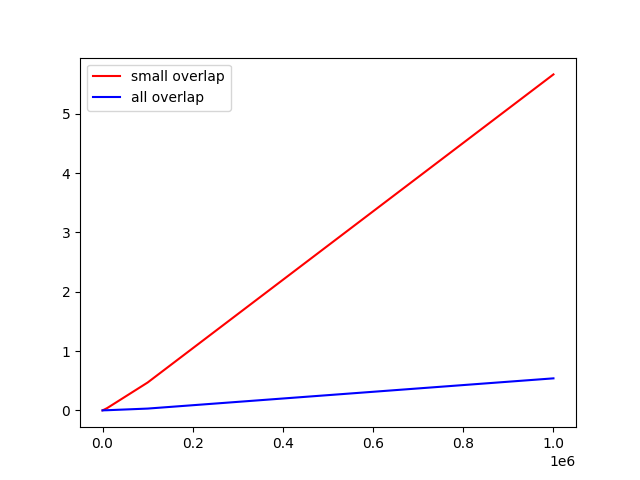
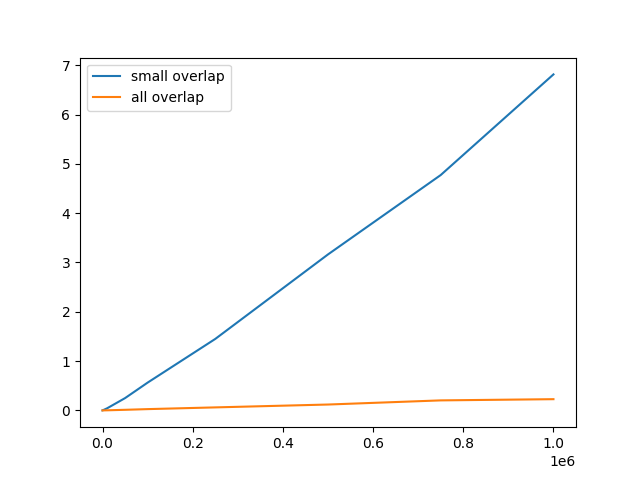
Add more test sizes for better curve visualization in plot

diff --git a/project1/fuzzy_sorting.py b/project1/fuzzy_sorting.py
@@ -20,7 +20,7 @@ from random import randint
 
 def fuzzy_sort(arr, begin, end):
     """
-    Returns intervals in a fuzzy sorted manner for the given array of intevals
+    Returns intervals in a fuzzy sorted manner for the given array of intervals
 
         Parameters:
             arr (list of lists): The list of intervals that are to be sorted
@@ -51,9 +51,9 @@ def random_partition(arr, begin, end):
             Tuple: The end and start points for the split lists
     """
         
-    i = randint(begin, end)
-    # swap pivot with last element
-    arr[i], arr[end] = arr[end], arr[i]
+    pivot = randint(begin, end)
+    # swap pivot with last element this helps us to use the quicksort algorithm even though we have a random pivot
+    arr[pivot], arr[end] = arr[end], arr[pivot]
 
     return partition(arr, begin, end)
 
@@ -72,21 +72,22 @@ def partition(arr, begin, end):
     """
 
     pivot = arr[end]
-    q = begin - 1
-    t = begin - 1
+    q = begin - 1       # middle start
+    t = begin - 1       # middle end
 
     for i in range(begin, end):
-        if arr[i][1] < pivot[0]:
+        if arr[i][0] <= pivot[1] and pivot[0] <= arr[i][1]: # right
+            t += 1
+            arr[t], arr[i] = arr[i], arr[t]
+
+        elif arr[i][1] < pivot[0]:  # left-middle 
             t += 1
             q += 1
             arr[t], arr[q] = arr[q], arr[t]
 
             if t != i:
                 arr[i], arr[q] = arr[q], arr[i]
-        elif (arr[i][0] <= pivot[1] and pivot[0] <= arr[i][1]):
-            t += 1
-            arr[t], arr[i] = arr[i], arr[t]
-
+        
     arr[t + 1], arr[end] = arr[end], arr[t + 1]
 
     return q + 1, t + 1
@@ -151,6 +152,7 @@ def small_overlap():
     begin = time.time()
     fuzzy_sort(arr, 0, len(arr)-1)
     end = time.time()
+    # print(arr)
     exec_time = end - begin
     time_taken_small.append((10,exec_time))
     print((10,exec_time))
@@ -182,6 +184,15 @@ def small_overlap():
     time_taken_small.append((10000,exec_time))
     print((10000,exec_time))
 
+    # Size 50000
+    arr = create_intervals(50000, df)
+    begin = time.time()
+    fuzzy_sort(arr, 0, len(arr)-1)
+    end = time.time()
+    exec_time = end - begin
+    time_taken_small.append((50000,exec_time))
+    print((50000,exec_time))
+
     # Size 100000
     arr = create_intervals(100000, df)
     begin = time.time()
@@ -190,6 +201,33 @@ def small_overlap():
     exec_time = end - begin
     time_taken_small.append((100000,exec_time))
     print((100000,exec_time))
+
+    # Size 250000
+    arr = create_intervals(250000, df)
+    begin = time.time()
+    fuzzy_sort(arr, 0, len(arr)-1)
+    end = time.time()
+    exec_time = end - begin
+    time_taken_small.append((250000,exec_time))
+    print((250000,exec_time))
+
+    # Size 500000
+    arr = create_intervals(500000, df)
+    begin = time.time()
+    fuzzy_sort(arr, 0, len(arr)-1)
+    end = time.time()
+    exec_time = end - begin
+    time_taken_small.append((500000,exec_time))
+    print((500000,exec_time))
+
+    # Size 750000
+    arr = create_intervals(750000, df)
+    begin = time.time()
+    fuzzy_sort(arr, 0, len(arr)-1)
+    end = time.time()
+    exec_time = end - begin
+    time_taken_small.append((750000,exec_time))
+    print((750000,exec_time))
 
     # Size 1000000
     arr = create_intervals(1000000, df)
@@ -257,6 +295,15 @@ def all_overlap():
     time_taken_all.append((10000,exec_time))
     print((10000,exec_time))
 
+    # Size 50000
+    arr = create_intervals(50000, df)
+    begin = time.time()
+    fuzzy_sort(arr, 0, len(arr)-1)
+    end = time.time()
+    exec_time = end - begin
+    time_taken_all.append((50000,exec_time))
+    print((50000,exec_time))
+
     # Size 100000
     arr = create_intervals(100000, df)
     begin = time.time()
@@ -265,6 +312,33 @@ def all_overlap():
     exec_time = end - begin
     time_taken_all.append((100000,exec_time))
     print((100000,exec_time))
+
+    # Size 250000
+    arr = create_intervals(250000, df)
+    begin = time.time()
+    fuzzy_sort(arr, 0, len(arr)-1)
+    end = time.time()
+    exec_time = end - begin
+    time_taken_all.append((250000,exec_time))
+    print((250000,exec_time))
+
+    # Size 500000
+    arr = create_intervals(500000, df)
+    begin = time.time()
+    fuzzy_sort(arr, 0, len(arr)-1)
+    end = time.time()
+    exec_time = end - begin
+    time_taken_all.append((500000,exec_time))
+    print((500000,exec_time))
+
+    # Size 750000
+    arr = create_intervals(750000, df)
+    begin = time.time()
+    fuzzy_sort(arr, 0, len(arr)-1)
+    end = time.time()
+    exec_time = end - begin
+    time_taken_all.append((750000,exec_time))
+    print((750000,exec_time))
 
     # Size 1000000
     arr = create_intervals(1000000, df)
